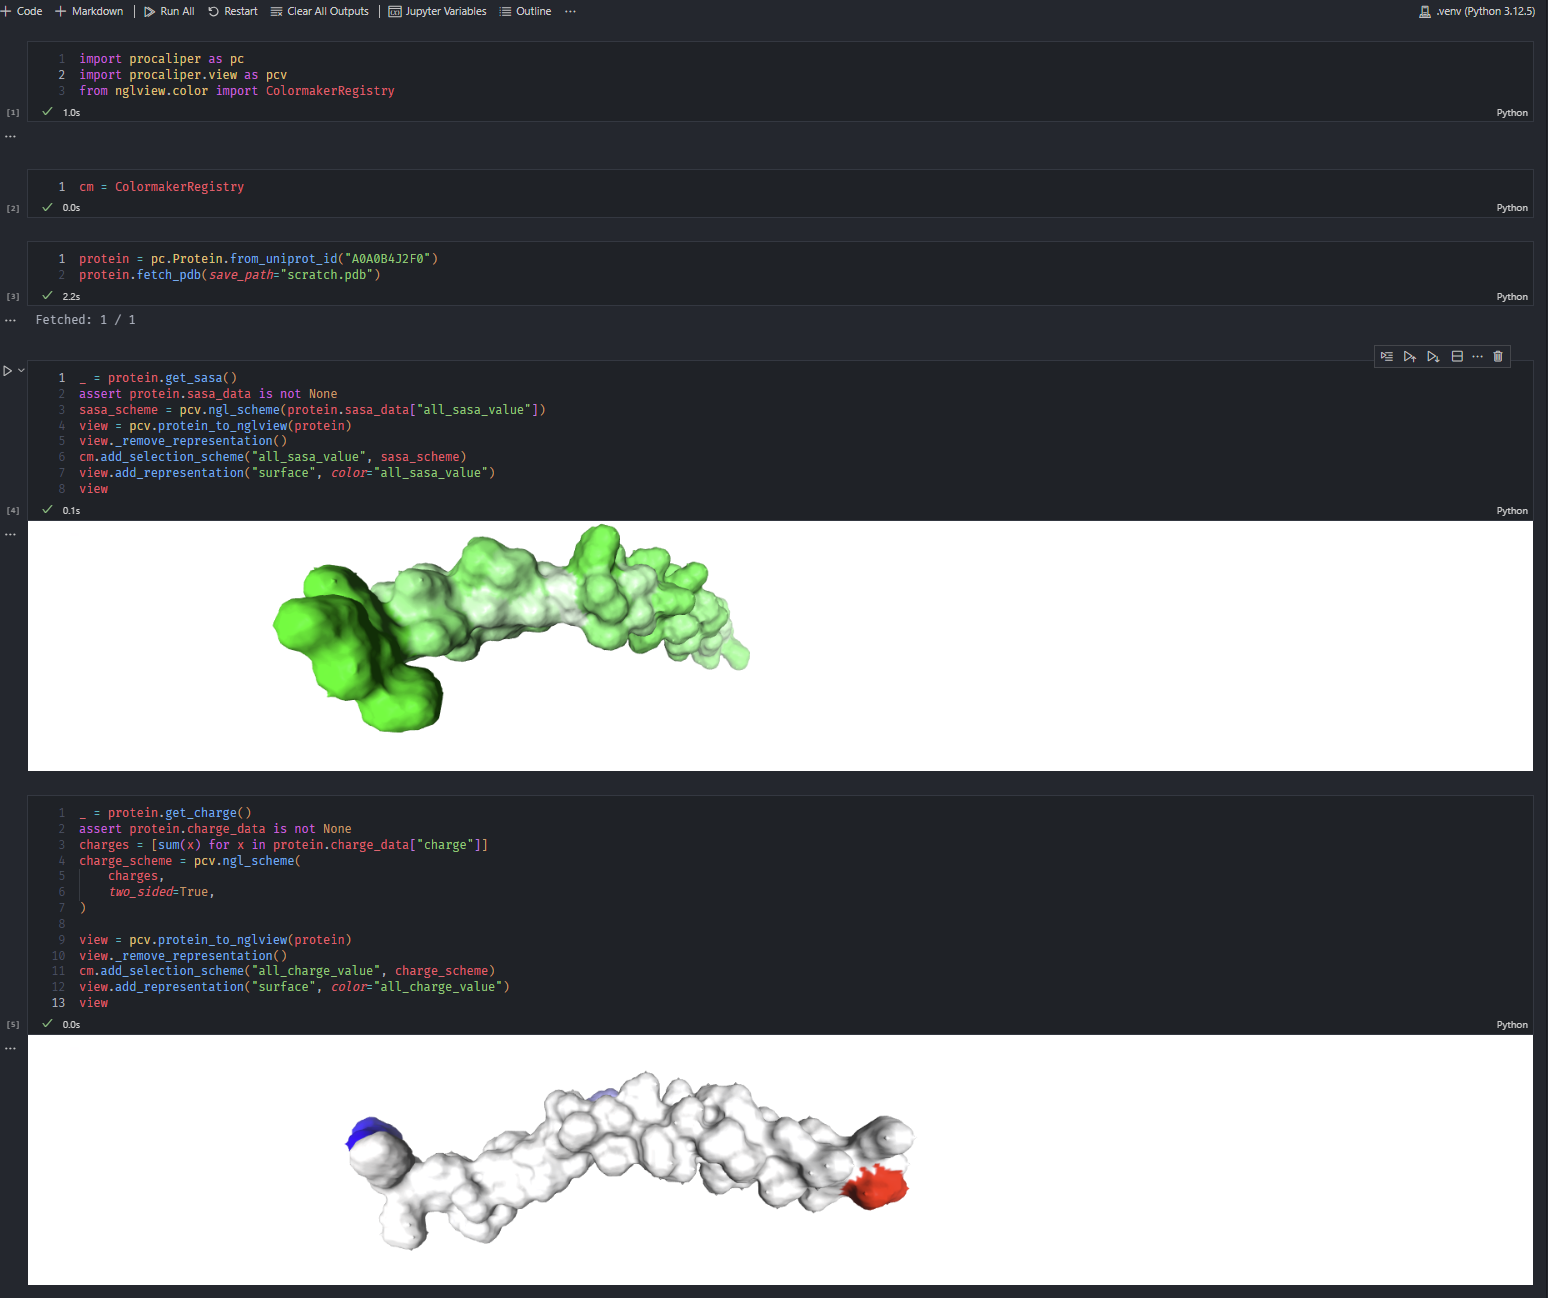
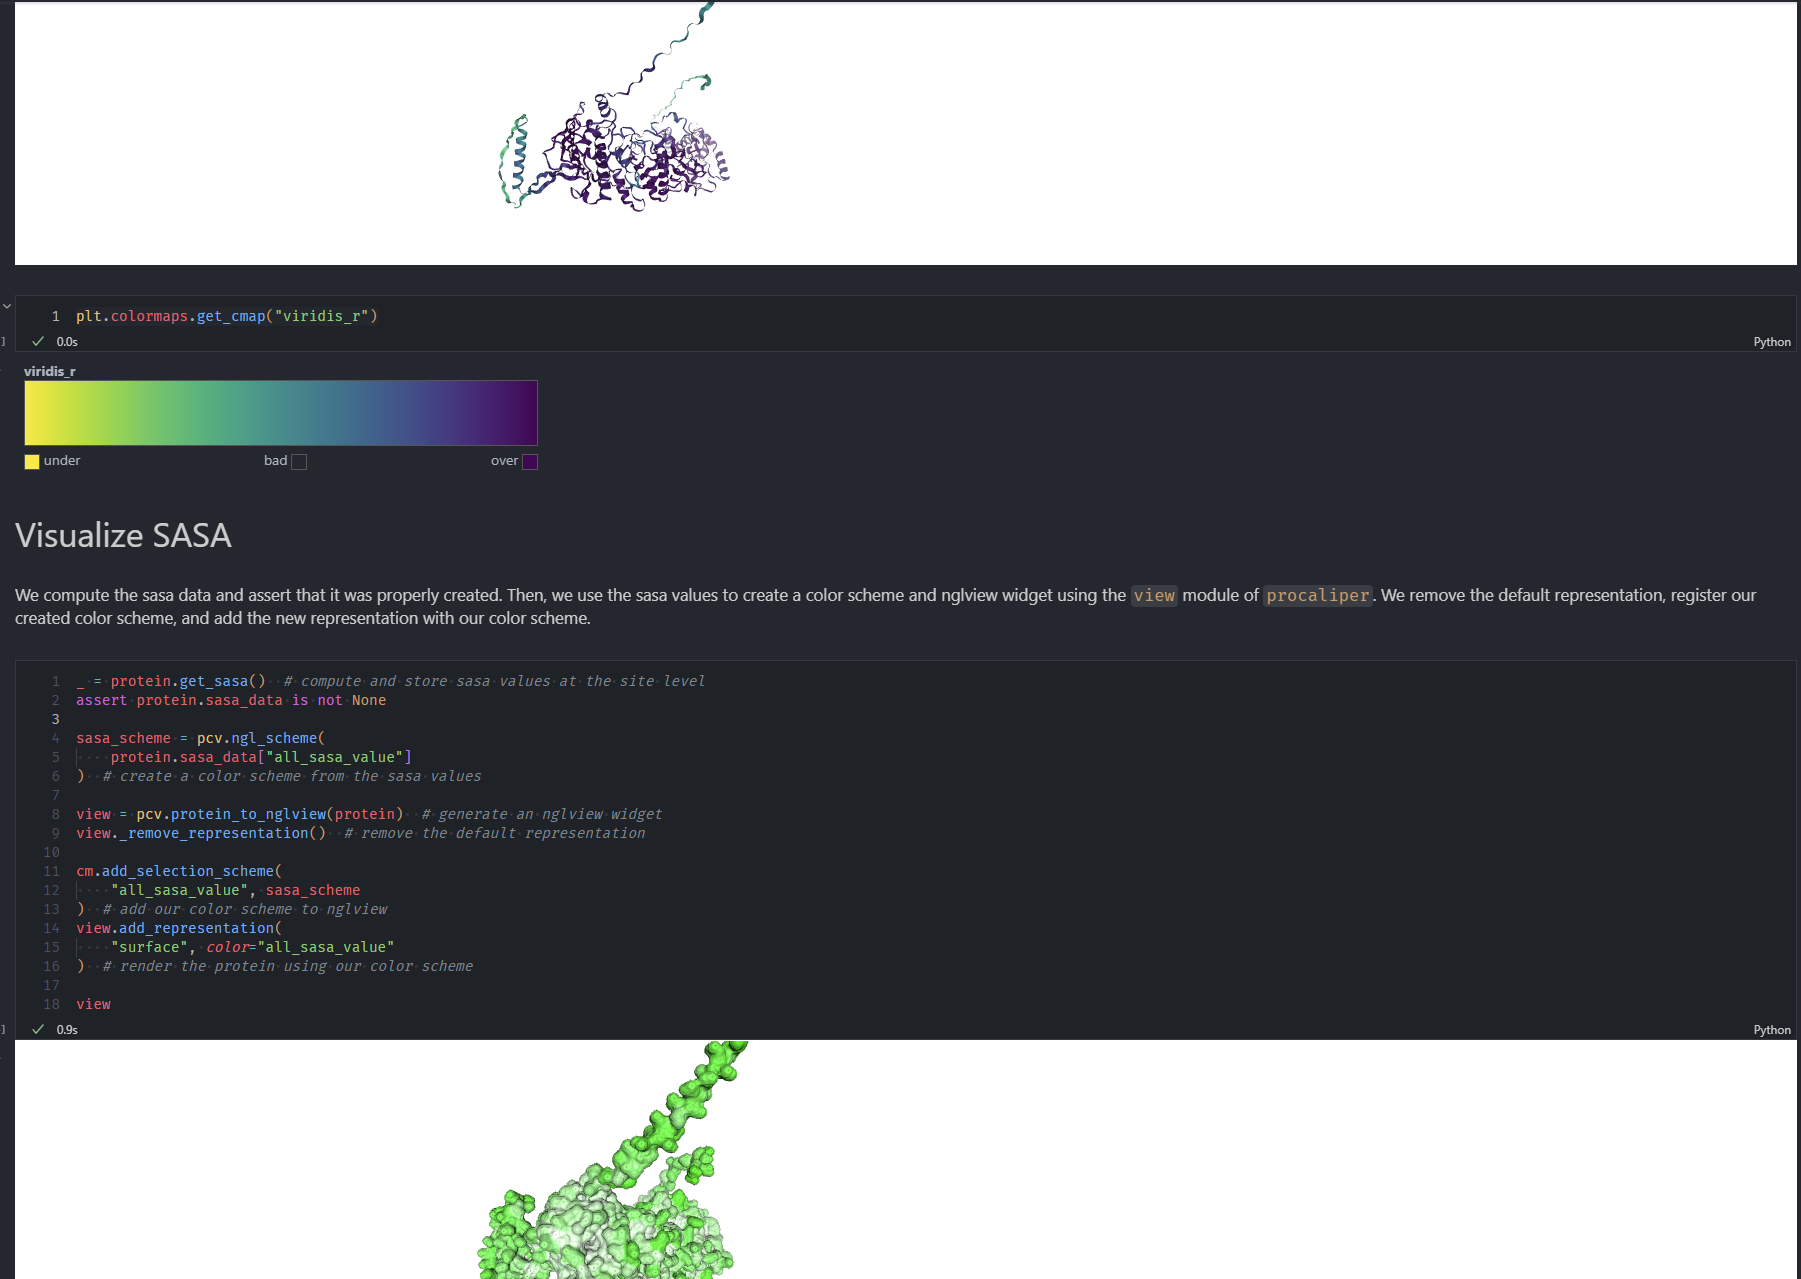
updated demo and made color mapping more user-friendly

diff --git a/procaliper/view/nglview_utils.py b/procaliper/view/nglview_utils.py
@@ -2,6 +2,8 @@ from __future__ import annotations
 
 from typing import Callable
 
+import matplotlib as plt
+
 from .._protein import Protein
 
 """
@@ -49,39 +51,58 @@ def _default_float_to_hex_rb(x: float) -> str:
         return f"#{int(1*255):02x}{int((1-x)*255):02x}{int((1-x)*255):02x}"
 
 
+def _matplotlib_cmapper(cmap: str, two_sided: bool) -> Callable[[float], str]:
+    if two_sided:
+        return lambda x: plt.colors.to_hex(plt.colormaps.get_cmap(cmap)(x / 2 + 0.5))
+
+    return lambda x: plt.colors.to_hex(plt.colormaps.get_cmap("viridis_r")(x))
+
+
 def ngl_scheme(
     data: list[float],
-    float_to_hex: Callable[[float], str] | None = None,
+    color_mapper: Callable[[float], str] | None = None,
     two_sided: bool = False,
+    rescale: bool = True,
 ) -> list[tuple[str, str]]:
     """Converts a list of values to an nglview color scheme.
 
     Args:
         data (list[float]): The list of values to convert.
-        float_to_hex (Callable[[float], str] | None, optional): Function that
-            converts a float to a hex color in the form `"#RRGGBB"`. If `None`,
-            a default function is used that interpolates between white and green
-            (one-sided) or red and blue (two-sided). Defaults to `None`.
+        color_mapper (Callable[[float], str] | str | None, optional): Function that
+            converts a float to a hex color in the form `"#RRGGBB"`. If a string, it
+            should be the name of a matplotlib colormap. If `None`, a default function
+            is used that interpolates between white and green (one-sided) or red and blue (two-sided).
+            Defaults to `None`.
         two_sided (bool, optional): Whether to use a two-sided color scheme. If
             `False`, we assume `data` only contains positive values. Defaults to
             `False`.
+        rescale (bool, optional): Whether to rescale the values to be between
+            0 and 1 (one-sided) or -1 and 1 (two-sided). Defaults to `True`.
+            If `False`, the values are not rescaled, but are assumed to fall within
+            [0, 1] or [-1, 1] depending on `two_sided`.
 
     Returns:
         list[tuple[str, str]]: A list of color and residue number tuples that
             are compatible with nglview.
     """
-    if float_to_hex is None:
+    if color_mapper is None:
         if two_sided:
-            float_to_hex = _default_float_to_hex_rb
+            color_mapper = _default_float_to_hex_rb
         else:
-            float_to_hex = _default_float_to_hex
+            color_mapper = _default_float_to_hex
 
-    maxx = max(data)
-    scale = max(min(data), abs(maxx)) if two_sided else maxx
+    if isinstance(color_mapper, str):
+        color_mapper = _matplotlib_cmapper(color_mapper, two_sided)
 
-    if scale == 0:
-        data_scaled = [0.0] * len(data)
+    if rescale:
+        maxx = max(data)
+        scale = max(min(data), abs(maxx)) if two_sided else maxx
+
+        if scale == 0:
+            data_scaled = [0.0] * len(data)
+        else:
+            data_scaled = [x / maxx for x in data]
     else:
-        data_scaled = [x / maxx for x in data]
+        data_scaled = data
 
-    return [(float_to_hex(x), f"{i+1}") for i, x in enumerate(data_scaled)]
+    return [(color_mapper(x), f"{i+1}") for i, x in enumerate(data_scaled)]
